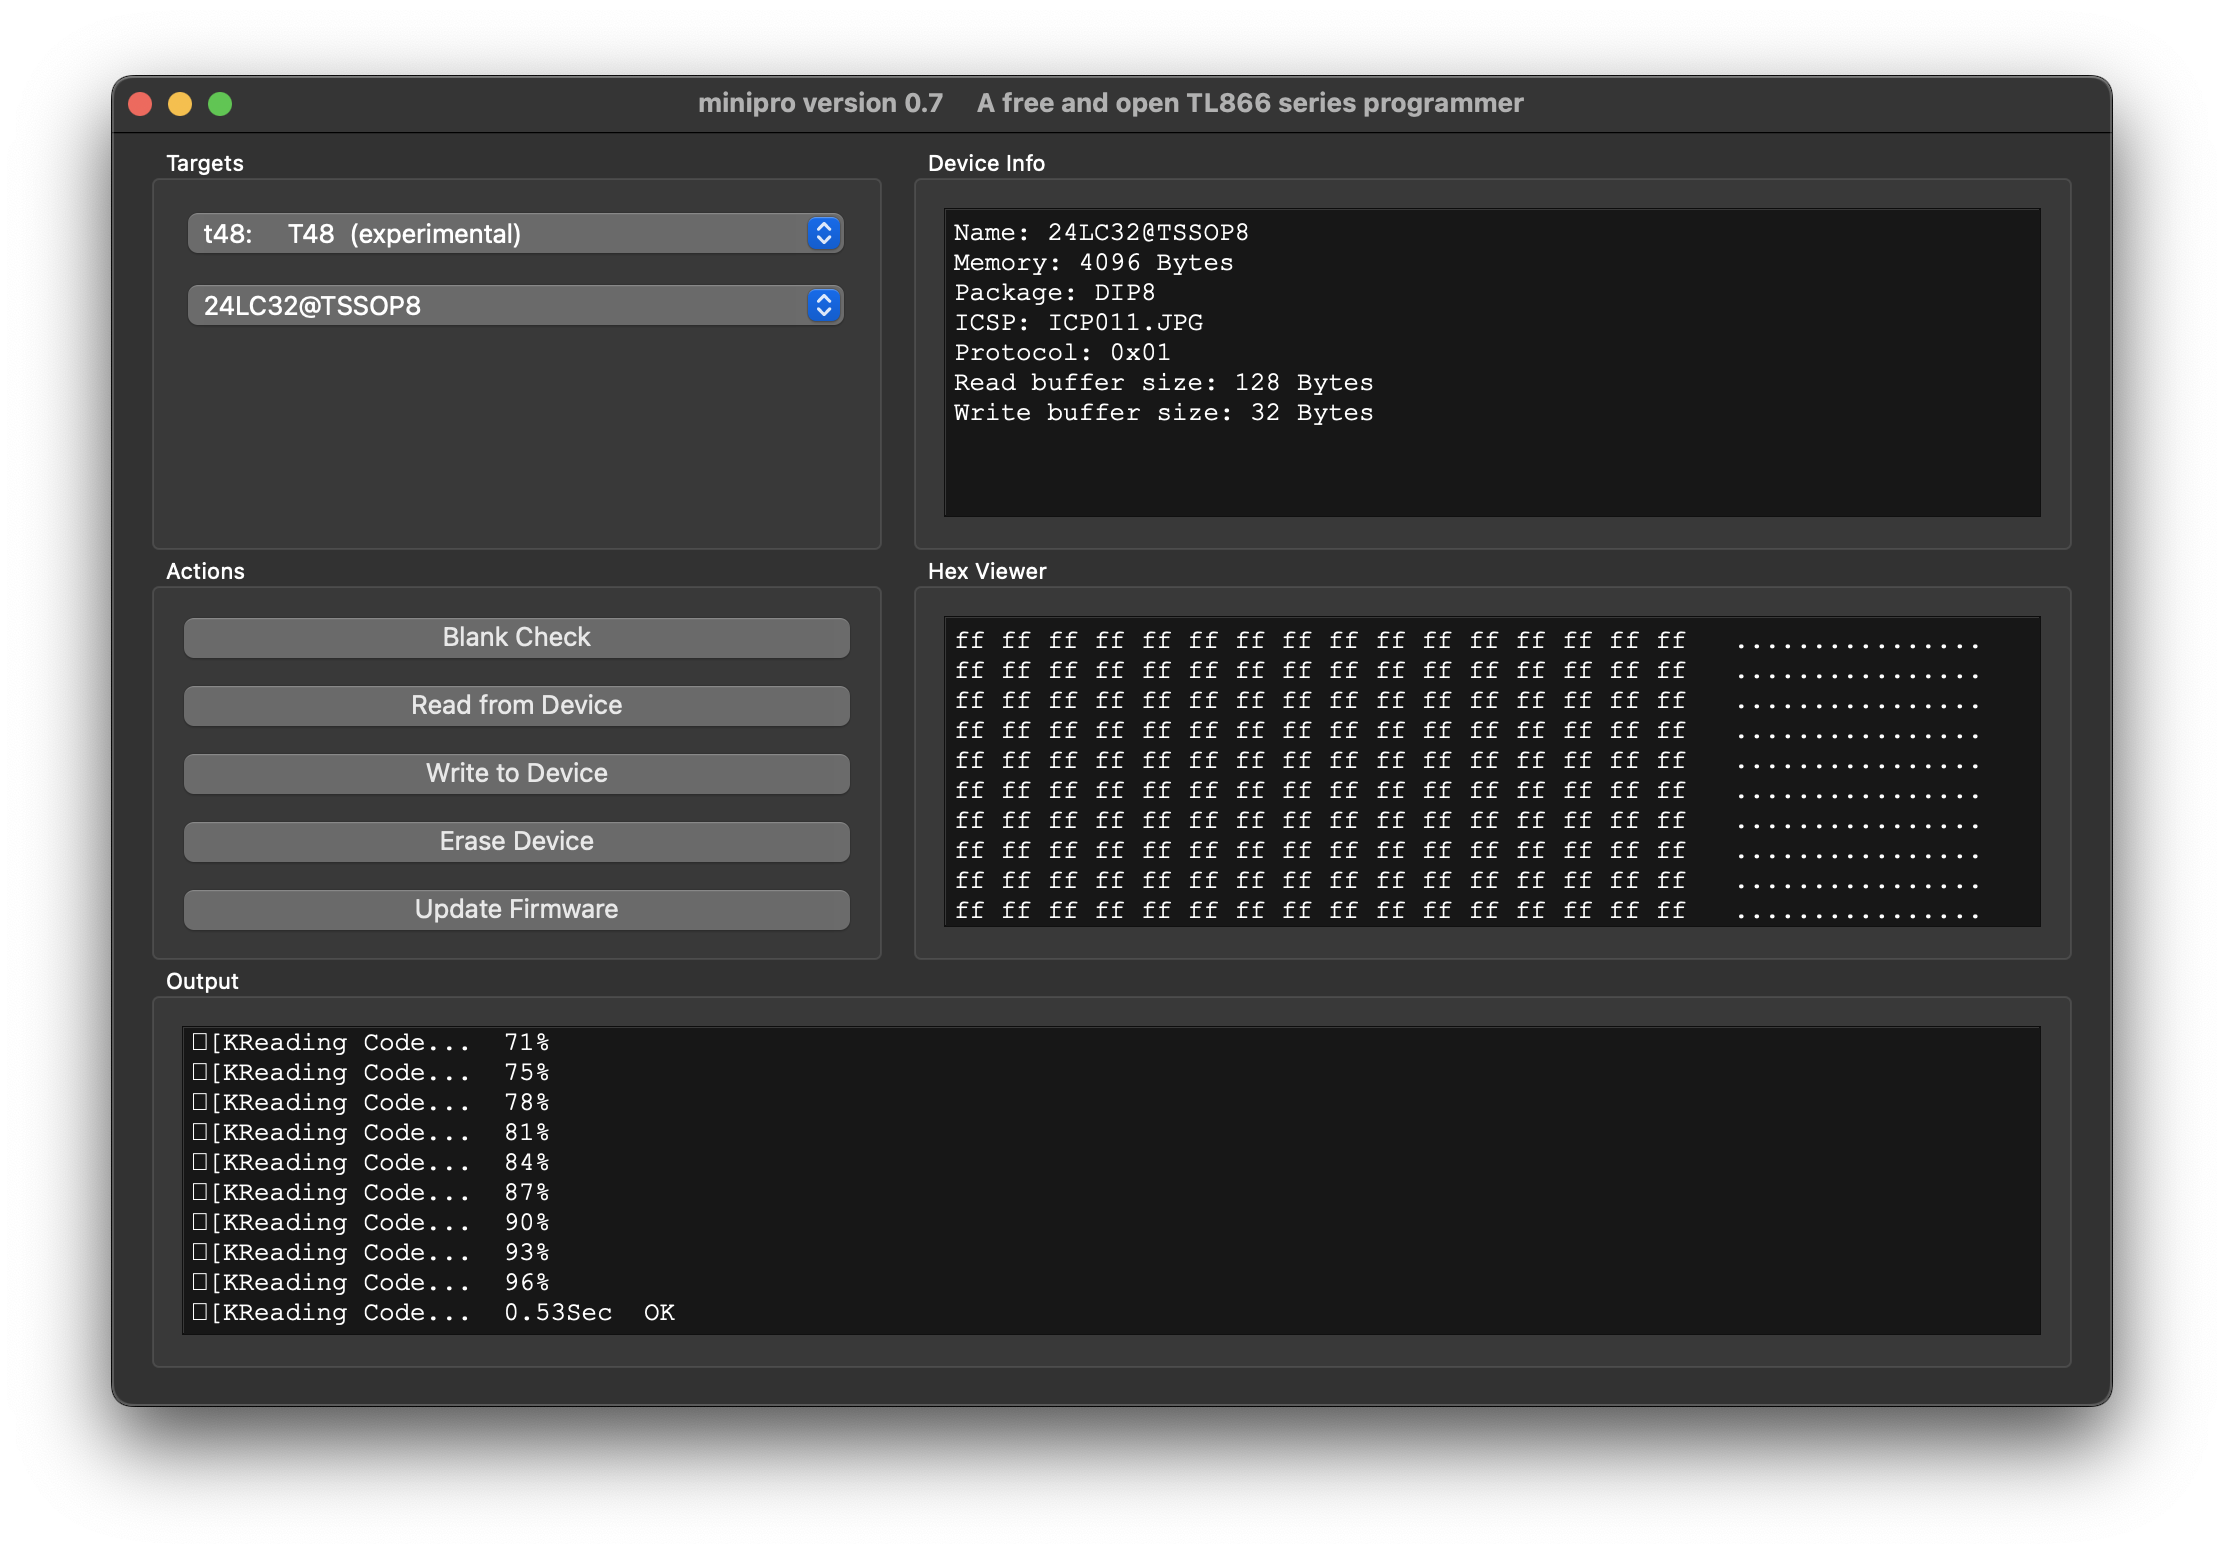
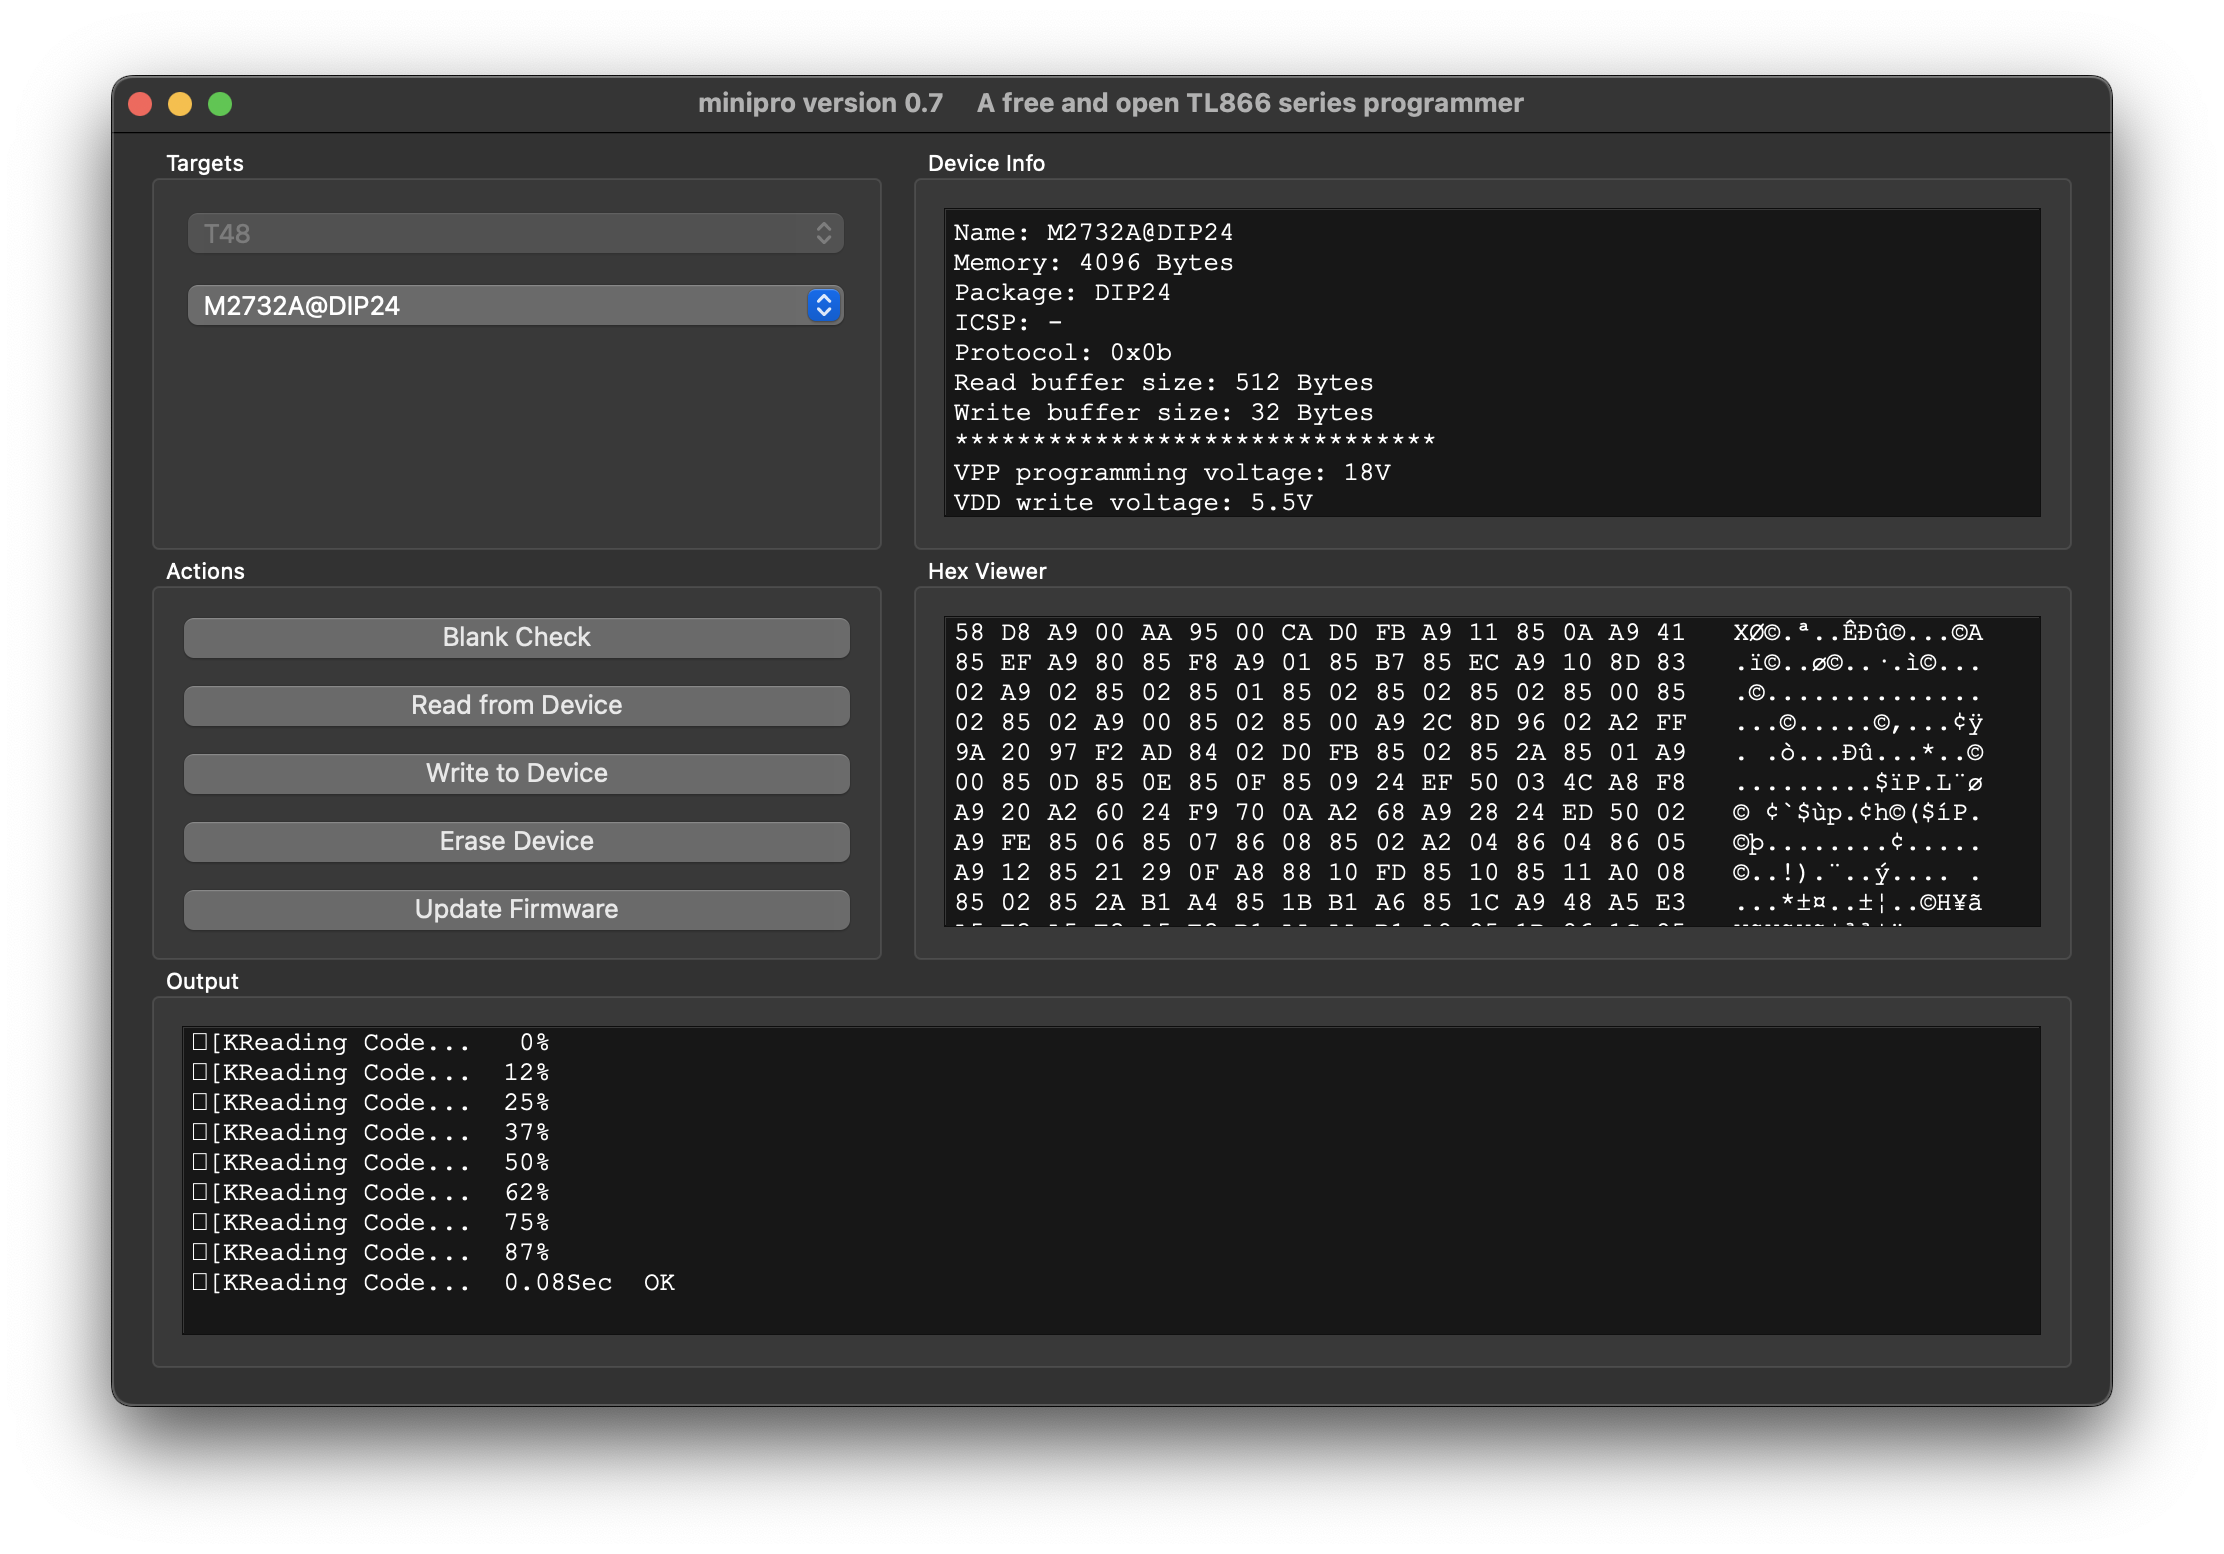
Improved Hex viewer

diff --git a/src/MainWindow.cpp b/src/MainWindow.cpp
@@ -30,17 +30,13 @@ void MainWindow::initializer(){
     device_view->setFont(monospace_font);
     hex_view->setFont(monospace_font);
     status_view->setFont(monospace_font);
-
-//    get_programmers();
-//    get_devices();
-//    check_for_programmer();
 }
 
 MainWindow::MainWindow(QWidget *parent) : QMainWindow(parent){
     initializer();
 
-    QGroupBox *groupBox = new QGroupBox(tr("Targets"));
-    QVBoxLayout *vbox = new QVBoxLayout;
+    auto *groupBox = new QGroupBox(tr("Targets"));
+    auto *vbox = new QVBoxLayout;
     vbox->addWidget(button_programmer);
     connect(button_programmer, SIGNAL (currentTextChanged(QString)),this, SLOT (check_for_programmer(QString)));
     vbox->addWidget(button_device);
@@ -49,8 +45,8 @@ MainWindow::MainWindow(QWidget *parent) : QMainWindow(parent){
     groupBox->setLayout(vbox);
     layout->addWidget(groupBox, 0, 0);
 
-    QGroupBox *groupBox3 = new QGroupBox(tr("Actions"));
-    QVBoxLayout *vbox3 = new QVBoxLayout;
+    auto *groupBox3 = new QGroupBox(tr("Actions"));
+    auto *vbox3 = new QVBoxLayout;
     vbox3->addWidget(button_blank);
     connect(button_blank, SIGNAL (released()),this, SLOT (check_blank()));
     vbox3->addWidget(button_read);
@@ -117,17 +113,25 @@ QString MainWindow::run_process(QPlainTextEdit &status_text, const QStringList &
     }
     if (type == "stderr"){
         output += minipro.readAllStandardError();
+        QRegularExpression re(R"(Serial code:.*\n([\s\S]*))");
+        if (QRegularExpressionMatch match = re.match(output); match.hasMatch()) {
+            output = match.captured(1);
+        }
+        status_text.appendPlainText("[Output]: " + output);
     }
     else if (type == "stdout"){
         output += minipro.readAllStandardOutput();
+        QRegularExpression re(R"(Serial code:.*\n([\s\S]*))");
+        if (QRegularExpressionMatch match = re.match(output); match.hasMatch()) {
+            output = match.captured(1);
+        }
     }
 
-    QRegularExpression re(R"(Serial code:.*\n([\s\S]*))");
-    QRegularExpressionMatch match = re.match(output);
-    if (match.hasMatch()) {
-        output = match.captured(1);
-    }
-    status_text.appendPlainText("[Output]: " + output);
+//    QRegularExpression re(R"(Serial code:.*\n([\s\S]*))");
+//    if (QRegularExpressionMatch match = re.match(output); match.hasMatch()) {
+//        output = match.captured(1);
+//    }
+//    status_text.appendPlainText("[Output]: " + output);
     status_text.ensureCursorVisible();
     return output;
 }
@@ -144,7 +148,6 @@ void MainWindow::check_for_minipro(){
             window->setWindowTitle(match.captured(0).trimmed());
             minipro_found = true;
             button_programmer->setDisabled(false);
-            get_programmers();
             check_for_programmer();
             get_devices();
         }
@@ -158,8 +161,6 @@ void MainWindow::get_programmers(){
     programmers_list.clear();
     programmers_list << "No programmer";
     programmers_list << run_process(*status_view, arguments, "stderr").split("\n", Qt::SkipEmptyParts);;
-
-    button_programmer->addItems(programmers_list);
 }
 
 void MainWindow::check_for_programmer(const QString& selected_programmer){
@@ -171,7 +172,8 @@ void MainWindow::check_for_programmer(const QString& selected_programmer){
     if (match.hasMatch()) {
         programmer = match.captured(0);
         programmer_found = true;
-        button_programmer->setCurrentText(selected_programmer);
+        button_programmer->addItem(programmer);
+        button_programmer->setDisabled(true);
         button_device->setDisabled(false);
         button_blank->setDisabled(false);
         button_read->setDisabled(false);
@@ -228,34 +230,36 @@ void MainWindow::check_blank(){
 
 void MainWindow::read_device(){
     hex_view->clear();
+    QString temp_file = "temp.bin";
     QStringList arguments;
-    arguments << "-p" << device << "-r" << "temp.bin";
+    arguments << "-p" << device << "-r" << temp_file;
     if (!run_process(*status_view, arguments).contains("Unsupported device")
         && !run_process(*status_view, arguments).contains("Invalid Chip ID")) {
-        QFile f("temp.bin");
+        QFile f(temp_file);
         f.open(QFile::ReadOnly);
         QString temp = QString::fromUtf8(f.readAll().toHex());
-        //.toHex()
         QString formatted = "";
-        QString ascii = "";
-        std::cout << temp.length() / 2 << std::endl;
         int line = 0;
-        int chars_per_line = 32; //chars per line (bytes * 2)
-        int current;
-        int end;
-        for (int i=0; i < temp.length(); i++){
+        int chars_per_line = 32; //chars per line (16 bytes * 2)
+        QString ascii_string;
+        for (int i=0; i <= temp.length(); i++){
             if (i % 2 != 0){
-                QString byte = QChar(temp[i-1]);
-//                ascii += (char)QChar(temp[i-1]);
-                byte += QChar(temp[i]);
+                QString byte = QChar(temp[i-1]).toUpper();
+                byte += QChar(temp[i]).toUpper();
+                uint ascii_int = byte.toUInt(nullptr, 16);
                 byte += " ";
                 formatted += byte;
+                QChar ascii_char = QChar(ascii_int);
+                if (!ascii_char.isPrint() || ascii_char.isNonCharacter()){
+                    ascii_char = '.';
+                }
+                ascii_string += QChar(ascii_char);
             }
             if (i % chars_per_line == 0){
-                if (line != 0) {
-                    formatted += "  ................\n";
-                }
                 line++;
+                formatted += "  " + ascii_string + "\n";
+                ascii_string = "";
+
             }
         }
         hex_view->setPlainText(formatted);
@@ -267,6 +271,11 @@ void MainWindow::read_device(){
 
 void MainWindow::write_device(){
     QString fileName = QFileDialog::getOpenFileName(this);
+    if (fileName != "") {
+        QStringList arguments;
+        arguments << "-p" << device << "-w" << fileName;
+        run_process(*status_view, arguments);
+    }
 }
 
 void MainWindow::erase_device(){
